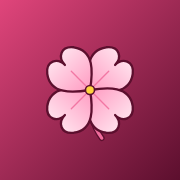
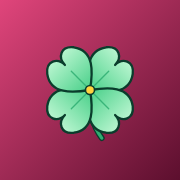
Trébol verde sobre tema rosado
Claude-Session: https://claude.ai/code/session_01AQQgp54T9uJVLv5Nw7inZt

Changed region(s): [[0.25, 0.25, 0.75, 0.8056]]

diff --git a/js/app-core.js b/js/app-core.js
@@ -18,12 +18,12 @@
   const HEART = 'M0 0 C-14 -10 -30 -24 -18 -40 C-10 -50 0 -44 0 -34 C0 -44 10 -50 18 -40 C30 -24 14 -10 0 0 Z';
   MA.clover = (size, cls) =>
     `<svg class="${cls || 'clover'}" width="${size}" height="${size}" viewBox="-60 -60 120 130" aria-hidden="true" focusable="false">
-      <path d="M0 0 C-3 30 3 48 16 64" fill="none" stroke="#d6336c" stroke-width="6" stroke-linecap="round"/>
-      <g stroke="#4a1233" stroke-width="2.4" stroke-linejoin="round" fill="#ffb3d1">
+      <path d="M0 0 C-3 30 3 48 16 64" fill="none" stroke="#1b8a5a" stroke-width="6" stroke-linecap="round"/>
+      <g stroke="#0d3b2e" stroke-width="2.4" stroke-linejoin="round" fill="#6fdc9f">
         <path d="${HEART}" transform="rotate(45)"/><path d="${HEART}" transform="rotate(135)"/>
         <path d="${HEART}" transform="rotate(225)"/><path d="${HEART}" transform="rotate(315)"/>
       </g>
-      <circle r="6" fill="#ffd23f" stroke="#4a1233" stroke-width="2.4"/>
+      <circle r="6" fill="#ffd23f" stroke="#0d3b2e" stroke-width="2.4"/>
     </svg>`;
 
   /* ---------- almacenamiento (en este dispositivo) ---------- */

diff --git a/sw.js b/sw.js
@@ -1,5 +1,5 @@
 /* Math Arena - funciona sin internet después de la primera visita */
-const CACHE = 'math-arena-v2';
+const CACHE = 'math-arena-v3';
 const FILES = [
   './', 'index.html', 'manifest.webmanifest', 'css/style.css',
   'js/banco.js', 'js/grados-1-3.js', 'js/grados-4-6.js', 'js/impostor-datos.js',
